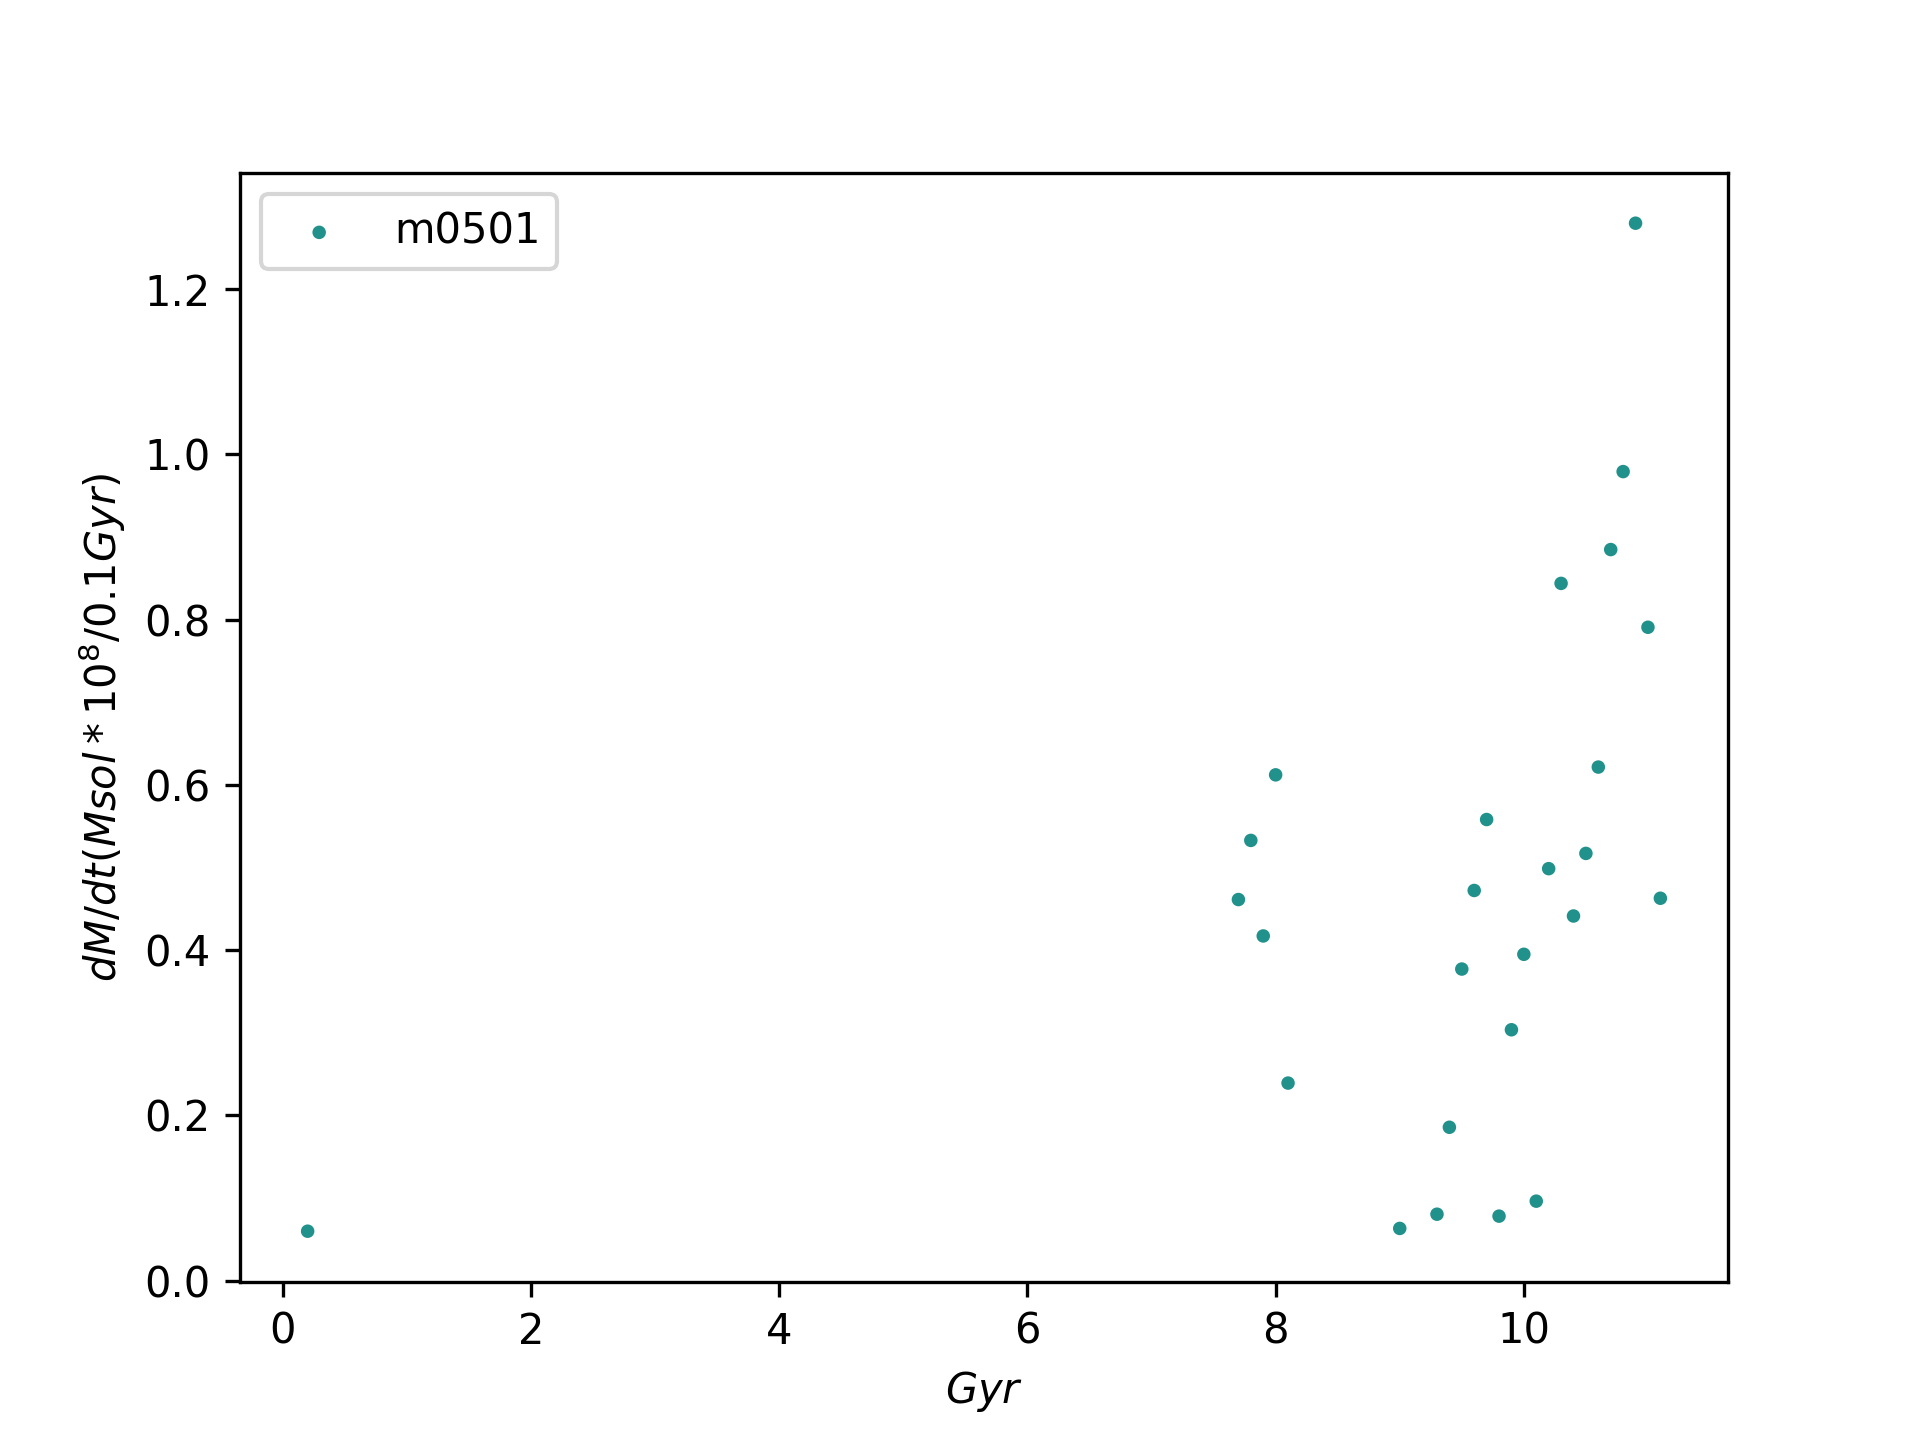
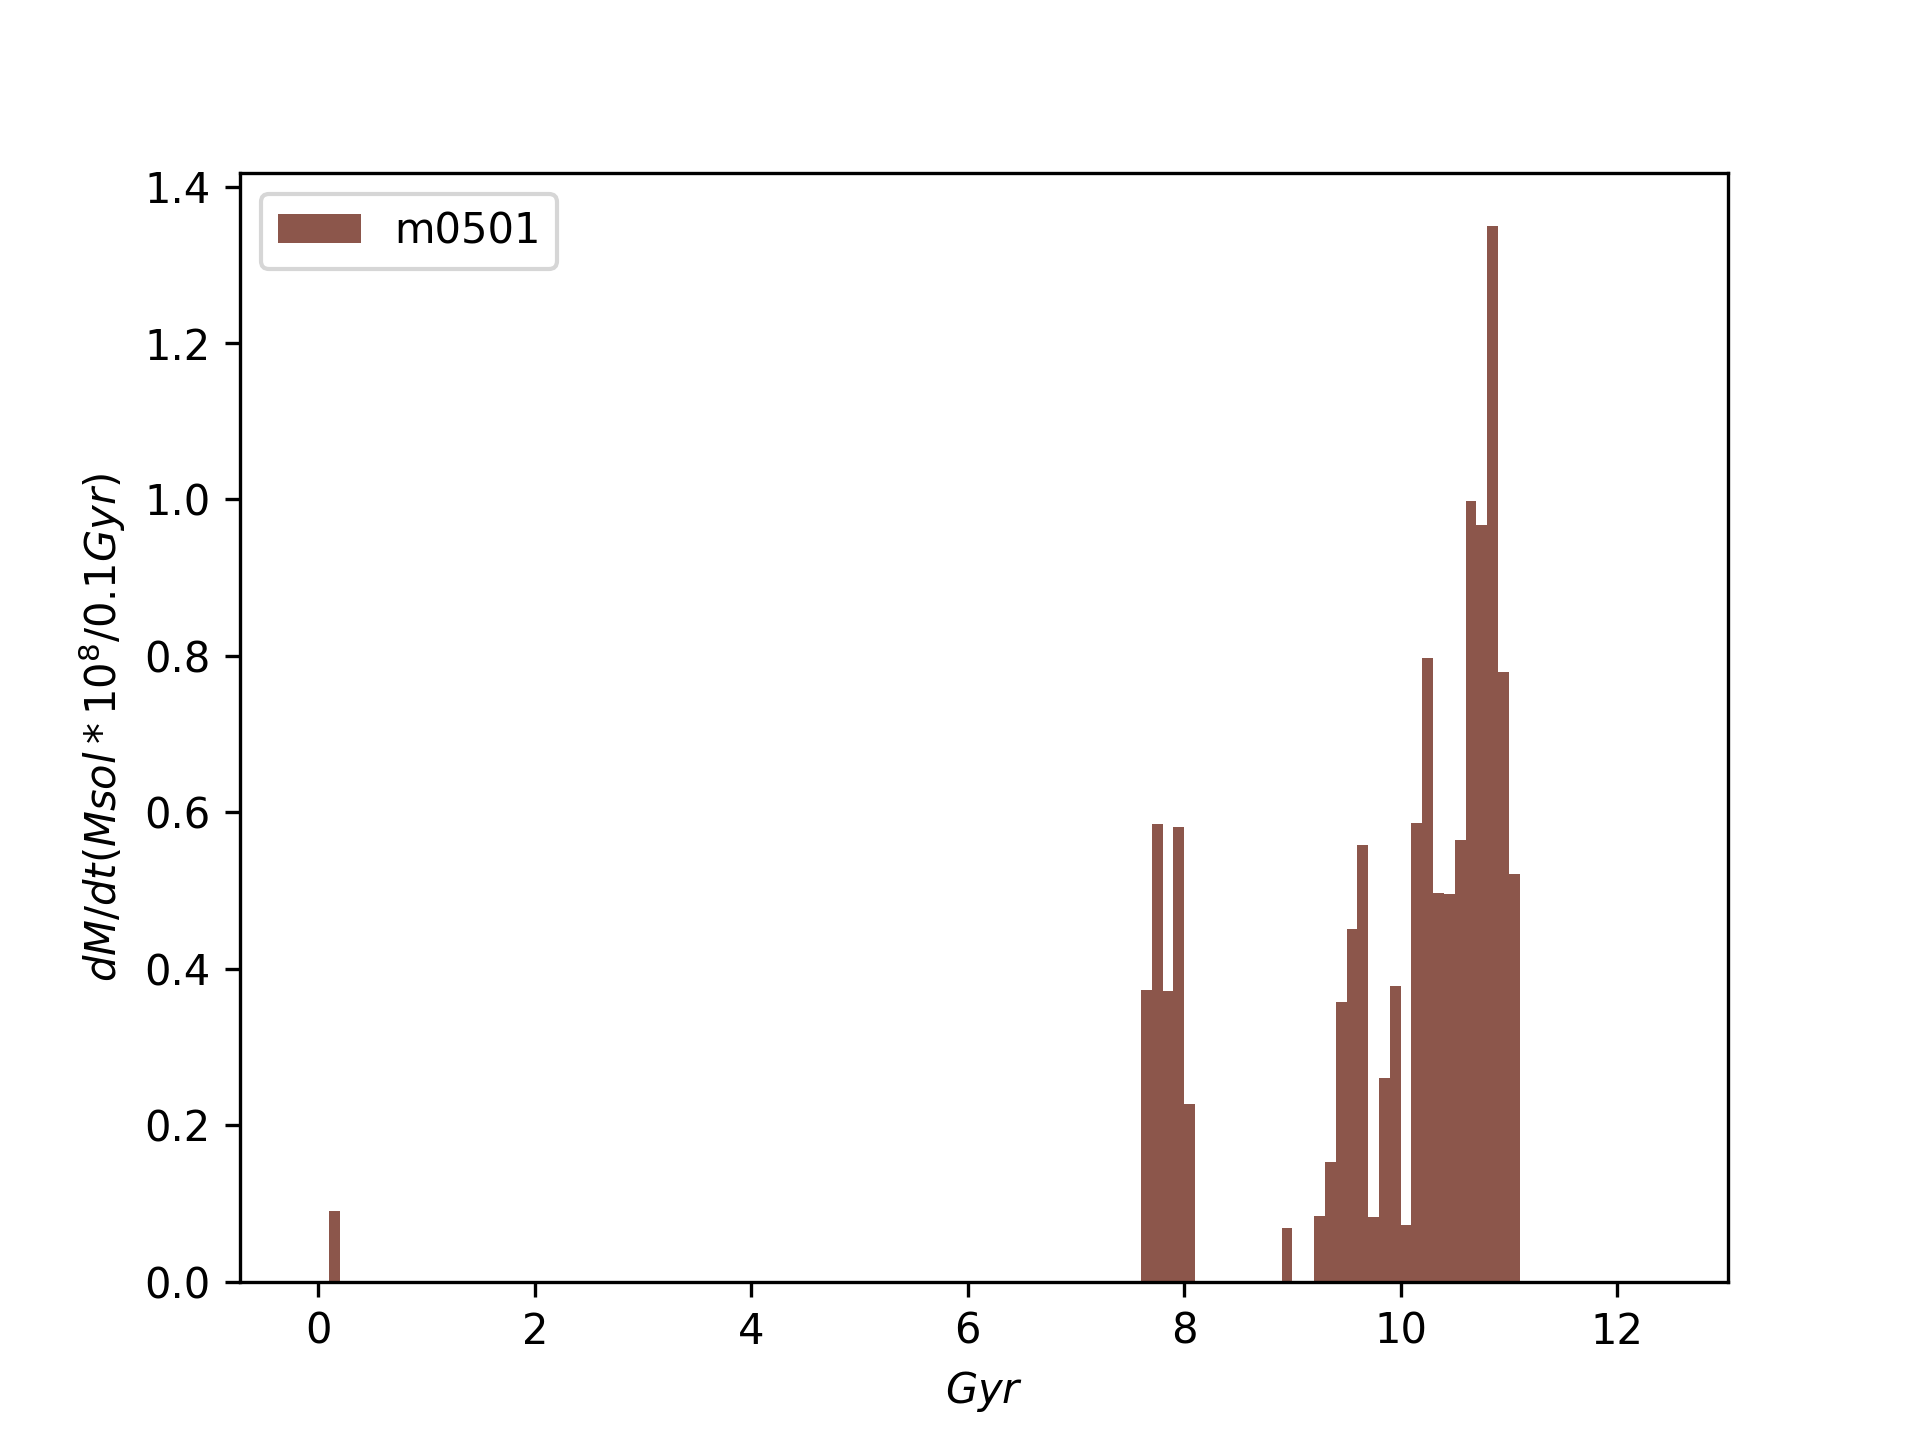
Changed dM/dt and AvAccrMet plots to histograms

diff --git a/Accretion_rate/dMdt.py b/Accretion_rate/dMdt.py
@@ -4,6 +4,7 @@ import math
 import pandas as pd
 import pylab
 from astropy.cosmology import Planck13
+from matplotlib import colors, transforms
 
 ### Read FILE
 columns = []
@@ -91,14 +92,14 @@ for i in range(len(halo_names)):
         #if dm!=0:
             #dmdt.append(math.log10(dm))
         dmdt.append(dm/10**8)
-        tb.append(j)
+        tb.append(j-st/2)
         #else:
         #    dmdt.append(0)
         
     dMdt.append(dmdt)    
     Tb.append(tb)
-print(len(dMdt[0]))
-
+print((dMdt[0]))
+print((Tb[0]))
 ### Creating plot
 def Graph(number):
     WD = 'Accretion_rate/'
@@ -123,27 +124,30 @@ def Graph(number):
 
 
 def Hist(number):
+    from matplotlib import colors, transforms
     WD = 'Accretion_rate/'
     fig, ax = plt.subplots()
     ax.set_xlabel('$Gyr$')
     #ax.set_xlim(0,2.7)
     ax.set_ylabel('$dM/dt (Msol*10^8/$'+repr(st)+'$Gyr)$')
-    c=[]
     halo=[]
     color =number*10
     i=number
-    c=np.full(len(Tb[i]),color)
+    colors=[colors.to_rgba(c)
+        for c in plt.rcParams['axes.prop_cycle'].by_key()['color']]
+    #c=['b','r','g','c','m','y','k','purple', 'orange','dodgerblue']
     #for j in range(len(time[i])):
     #ax1.plot(j['t'],'b',j[str])
     #halo.append(ax.scatter(Tb[i], dMdt[i], s=5, c=c, vmin=0, vmax=100,label=halo_names[i]))
     #ax.scatter(time, rat, s=6, c=c, vmin=0, vmax=100)
-    ax.hist(dMdt[i], bins=Tb[i])
-    #ax.legend(handles=halo)
+    ax.bar( Tb[i],dMdt[i], width=st, color=colors[i],label=halo_names[i])
+    ax.legend()
 
     print(type('t'))
     #plt.show()
     plt.savefig(WD+halo_names[i]+'_'+repr(st)+'_dMdt.png', dpi=300)
-#for j in range(len(halo_names)):
-#     Graph(j)
-Graph(0)
-Hist(0)
+
+for j in range(len(halo_names)):
+    Hist(j)
+#Graph(0)
+#Hist(0)

diff --git a/MeanBinMet_plot/MeanMet_bin.py b/MeanBinMet_plot/MeanMet_bin.py
@@ -85,9 +85,11 @@ st=0.1
 ar=np.arange(0.0,12.5,st)
 
 MeanMet=[]
+Tb=[]
 print(len(ar))
 for i in range(len(halo_names)):
     am=[]
+    tb=[]
     for j in ar:
         m=0
         mm=0
@@ -99,7 +101,9 @@ for i in range(len(halo_names)):
             am.append((mm/m)/Solmet)
         else:
             am.append(0)
-    MeanMet.append(am)    
+        tb.append(j-st/2)
+    MeanMet.append(am)  
+    Tb.append(tb)  
 print(len(MeanMet[0]))
 
 
@@ -125,5 +129,29 @@ def Graph(number):
     #plt.show()
     plt.savefig(WD+halo_names[i]+'_'+repr(st)+'Gyr_MeanMetdt.png', dpi=300)
 
+def Hist(number):
+    from matplotlib import colors, transforms
+    WD = 'MeanBinMet_plot/'
+    fig, ax = plt.subplots()
+    ax.set_xlabel('$Gyr$')
+    #ax.set_xlim(0,2.7)
+    ax.set_ylabel('$Average(Timebin)Met/Zsolar$')
+    halo=[]
+    color =number*10
+    i=number
+    colors=[colors.to_rgba(c)
+        for c in plt.rcParams['axes.prop_cycle'].by_key()['color']]
+    #c=['b','r','g','c','m','y','k','purple', 'orange','dodgerblue']
+    #for j in range(len(time[i])):
+    #ax1.plot(j['t'],'b',j[str])
+    #halo.append(ax.scatter(Tb[i], dMdt[i], s=5, c=c, vmin=0, vmax=100,label=halo_names[i]))
+    #ax.scatter(time, rat, s=6, c=c, vmin=0, vmax=100)
+    ax.bar( Tb[i],MeanMet[i], width=st, color=colors[i],label=halo_names[i])
+    ax.legend()
+
+    print(type('t'))
+    #plt.show()
+    plt.savefig(WD+halo_names[i]+'_'+repr(st)+'Gyr_MeanMetdt.png', dpi=300)
+
 for j in range(len(halo_names)):
-    Graph(j)
+    Hist(j)

diff --git a/AvTotalMet_plot/Average_Met.py b/AvTotalMet_plot/Average_Met.py
@@ -106,11 +106,11 @@ print(lb_time[0][0])
 
 ### Build Plot
 def Graph(number):
-    WD = 'AvMet_plot/'
+    WD = 'AvTotalMet_plot/'
     fig, ax = plt.subplots()
     ax.set_xlabel('$Gyr$')
     #ax.set_xlim(11,11.6)
-    ax.set_ylabel('$TotalAverageMet(Zsolar)$')
+    ax.set_ylabel('$HaloAverageMet(Zsolar)$')
     c=[]
     halo=[]
     avmet=avmets
